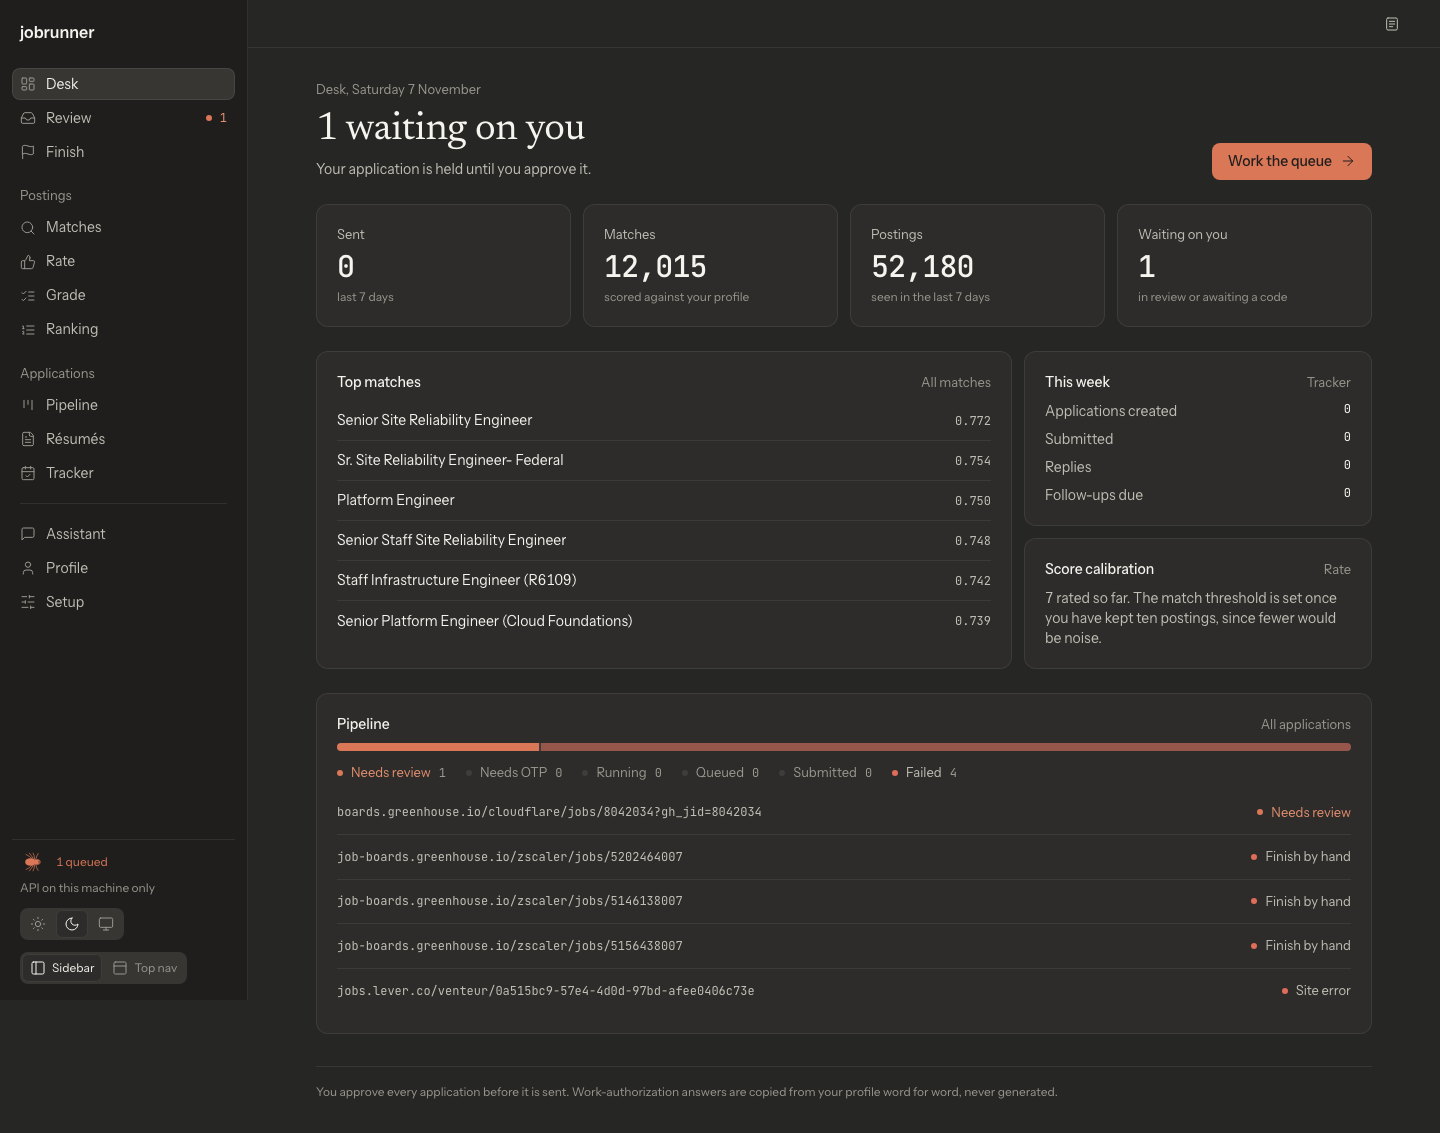
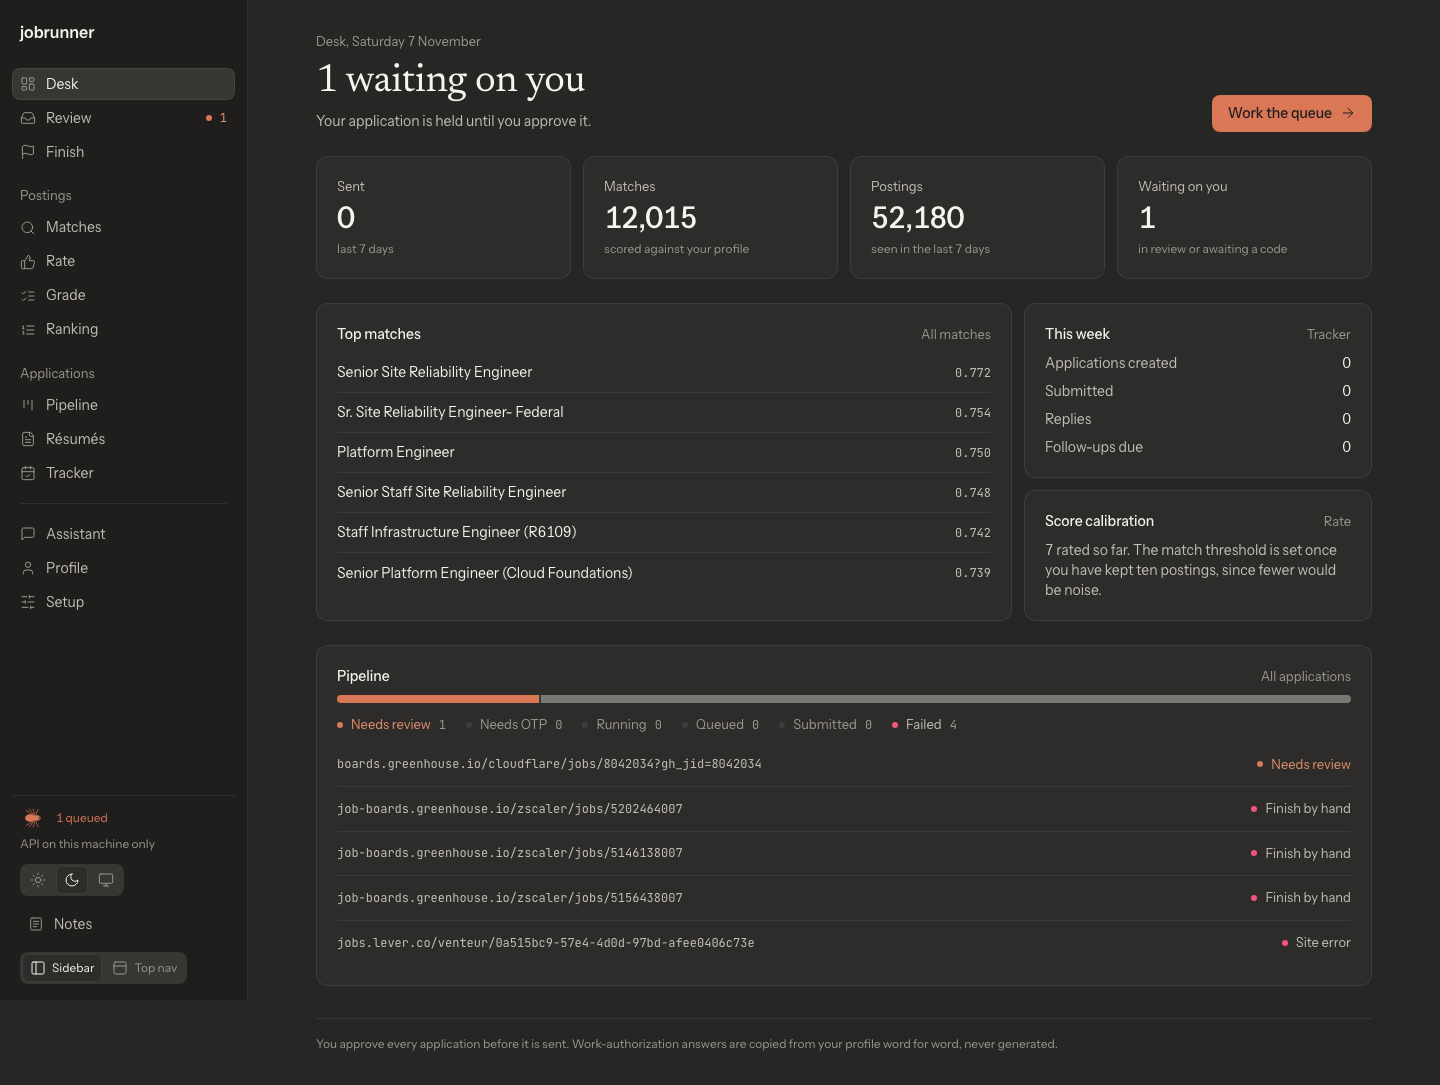
fix(web): apply warm dashboard review fixes

diff --git a/apps/web/src/app/globals.css b/apps/web/src/app/globals.css
@@ -19,8 +19,8 @@
   --color-on-accent: #1f1e1d;
   --color-go: #7cbf8e;
   --color-go-soft: #2e3c30;
-  --color-stop: #e06c5a;
-  --color-stop-soft: #432f2b;
+  --color-stop: #f2557a;
+  --color-stop-soft: #46262f;
   --color-wait: #c2c0b6;
   --color-wait-soft: #373633;
   /* Database chart bars only. Dataviz tool unavailable in this session;
@@ -58,8 +58,8 @@
   --color-on-accent: #ffffff;
   --color-go: #2f7d4f;
   --color-go-soft: #e9f1e9;
-  --color-stop: #b93a2b;
-  --color-stop-soft: #f8e9e5;
+  --color-stop: #b3173f;
+  --color-stop-soft: #fae6ec;
   --color-wait: #3d3d3a;
   --color-wait-soft: #f0eee6;
   --color-data: #2a78d6;
@@ -85,8 +85,8 @@
     --color-on-accent: #ffffff;
     --color-go: #2f7d4f;
     --color-go-soft: #e9f1e9;
-    --color-stop: #b93a2b;
-    --color-stop-soft: #f8e9e5;
+    --color-stop: #b3173f;
+    --color-stop-soft: #fae6ec;
     --color-wait: #3d3d3a;
     --color-wait-soft: #f0eee6;
     --color-data: #2a78d6;
@@ -137,7 +137,14 @@ h1 { font-family: var(--font-display); font-size: var(--text-display); font-weig
 .layout-choice { display: inline-flex; gap: 6px; align-items: center; justify-content: center; min-height: 28px; padding: 4px 8px; border-radius: 6px; font-size: 12px; color: var(--color-ink-faint); transition-property: background-color, color; }
 .layout-choice[aria-pressed="true"] { color: var(--color-ink); background: var(--color-paper-raised); box-shadow: inset 0 0 0 1px var(--color-rule); }
 .content-column { min-width: 0; }
-.content-bar { display: flex; justify-content: flex-end; align-items: center; height: 48px; padding: 0 32px; border-bottom: 1px solid var(--color-rule-soft); }
+.side-notes { position: relative; }
+.side-notes-panel { position: fixed; left: 260px; bottom: 16px; z-index: 40; width: 320px; max-width: calc(100vw - 280px); }
+.side-notes-panel[hidden] { display: none; }
+.side-notes-toggle { display: flex; align-items: center; gap: 10px; width: 100%; height: 32px; padding: 0 8px; border-radius: 8px; color: var(--color-ink-soft); transition-property: color, background-color; }
+.side-notes-toggle > svg { color: var(--color-ink-faint); }
+.side-notes-toggle:hover, .side-notes-toggle[aria-expanded="true"] { background: var(--color-paper-high); color: var(--color-ink); }
+.side-notes-toggle:focus-visible { outline: 2px solid var(--color-ink-soft); outline-offset: 2px; }
+[data-layout="top"] .side-notes-panel { position: absolute; left: auto; right: 0; bottom: auto; top: calc(100% + 12px); max-width: calc(100vw - 4rem); }
 .content-width { width: 100%; max-width: 1120px; margin-inline: auto; padding: 32px; min-width: 0; }
 .app-footer { padding-top: 0; }
 .app-footer p { border-top: 1px solid var(--color-rule); padding-top: 16px; font-size: 12px; line-height: 18px; color: var(--color-ink-faint); }
@@ -159,7 +166,7 @@ h1 { font-family: var(--font-display); font-size: var(--text-display); font-weig
 .desk-stat { display: flex; flex-direction: column; gap: 4px; transition-property: border-color; }
 a.desk-stat:hover { border-color: var(--color-ink-faint); }
 .desk-stat-label { display: flex; align-items: center; gap: 8px; font-size: 13px; color: var(--color-ink-soft); }
-.desk-stat-value { font: 500 30px/36px var(--font-mono); font-variant-numeric: tabular-nums; letter-spacing: -0.03em; }
+.desk-stat-value { font: 500 30px/36px var(--font-sans); font-variant-numeric: tabular-nums; letter-spacing: -0.03em; }
 .desk-stat-detail { font-size: 12px; color: var(--color-ink-faint); }
 .desk-grid { display: grid; grid-template-columns: minmax(0, 2fr) minmax(0, 1fr); gap: 12px; }
 .desk-secondary { display: flex; flex-direction: column; gap: 12px; }
@@ -168,7 +175,7 @@ a.desk-stat:hover { border-color: var(--color-ink-faint); }
 .desk-card-heading a { font-size: 13px; color: var(--color-ink-faint); transition-property: color; }
 .desk-card-heading a:hover { color: var(--color-ink); }
 .status-dot { display: inline-block; width: 6px; height: 6px; border-radius: 50%; flex: none; }
-.resume-sheet { border-radius: 8px; overflow: hidden; background: #fdfcf9; color: #242320; box-shadow: 0 8px 24px rgba(0, 0, 0, 0.12); --color-ink: #242320; --color-ink-soft: #514f48; --color-ink-faint: #706e65; --color-rule: rgba(31, 30, 29, 0.1); --color-paper: #fdfcf9; --color-stop: #b93a2b; --color-go: #2f7d4f; }
+.resume-sheet { border-radius: 8px; overflow: hidden; background: #fdfcf9; color: #242320; box-shadow: 0 8px 24px rgba(0, 0, 0, 0.12); --color-ink: #242320; --color-ink-soft: #514f48; --color-ink-faint: #706e65; --color-rule: rgba(31, 30, 29, 0.1); --color-paper: #fdfcf9; --color-stop: #b3173f; --color-go: #2f7d4f; }
 
 @media (max-width: 767px) {
   .app-shell, .app-shell[data-layout="top"] { display: block; }
@@ -182,7 +189,7 @@ a.desk-stat:hover { border-color: var(--color-ink-faint); }
   .nav-group, [data-layout="top"] .nav-group { display: block; }
   .nav-separator, [data-layout="top"] .nav-separator { display: block; }
   [data-layout="top"] .sidebar-service { display: block; }
-  .content-bar { height: 40px; padding-inline: 20px; }
+  .side-notes-panel, [data-layout="top"] .side-notes-panel { position: static; width: 100%; max-width: none; margin-top: 8px; }
   .content-width { padding: 24px 20px; }
   .app-footer { padding-top: 0; }
   .desk-heading { align-items: flex-start; flex-direction: column; gap: 16px; }

diff --git a/apps/web/src/app/matches/filter-bar.tsx b/apps/web/src/app/matches/filter-bar.tsx
@@ -144,12 +144,12 @@ export function FilterBar({
     <div className="rounded-[var(--radius-lg)] border border-rule bg-paper-raised p-4">
       <div className="flex flex-wrap items-end gap-4">
         <label className="flex flex-col gap-1">
-          <span className={LABEL}>keywords</span>
+          <span className={LABEL}>Keywords</span>
           {text("keywords", "python, postgres", "w-48")}
         </label>
 
         <label className="flex flex-col gap-1">
-          <span className={LABEL}>role</span>
+          <span className={LABEL}>Role</span>
           <select
             value={value("role")}
             onChange={(event) => set("role", event.target.value)}
@@ -166,12 +166,12 @@ export function FilterBar({
         </label>
 
         <label className="flex flex-col gap-1">
-          <span className={LABEL}>location</span>
+          <span className={LABEL}>Location</span>
           {text("locations", "austin, san jose", "w-44")}
         </label>
 
         <label className="flex flex-col gap-1">
-          <span className={LABEL}>remote</span>
+          <span className={LABEL}>Remote</span>
           <select value={value("remote")} onChange={(event) => set("remote", event.target.value)} className={FIELD}>
             <option value="">either</option>
             <option value="true">remote only</option>
@@ -180,7 +180,7 @@ export function FilterBar({
         </label>
 
         <label className="flex flex-col gap-1">
-          <span className={LABEL}>at least</span>
+          <span className={LABEL}>At least</span>
           <select
             value={value("min_seniority")}
             onChange={(event) => set("min_seniority", event.target.value)}
@@ -196,7 +196,7 @@ export function FilterBar({
         </label>
 
         <label className="flex flex-col gap-1">
-          <span className={LABEL}>seen within</span>
+          <span className={LABEL}>Seen within</span>
           <select
             value={value("posted_within_days")}
             onChange={(event) => set("posted_within_days", event.target.value)}
@@ -210,7 +210,7 @@ export function FilterBar({
         </label>
 
         <label className="flex flex-col gap-1">
-          <span className={LABEL}>order</span>
+          <span className={LABEL}>Order</span>
           <select value={value("rank")} onChange={(event) => set("rank", event.target.value)} className={FIELD}>
             <option value="">by fit (base score)</option>
             <option value="personalized">with my adjustments</option>
@@ -224,7 +224,7 @@ export function FilterBar({
         <legend className="sr-only">Pay, skills, education and work authorization</legend>
         <div className="flex flex-wrap items-end gap-4">
           <div className="flex flex-col gap-1">
-            <span className={LABEL}>pay reaching</span>
+            <span className={LABEL}>Pay reaching</span>
             <div className="flex gap-1">
               <input
                 type="number"
@@ -266,17 +266,17 @@ export function FilterBar({
           </div>
 
           <label className="flex flex-col gap-1">
-            <span className={LABEL}>skills I lack</span>
+            <span className={LABEL}>Skills I lack</span>
             {text("lacking_skills", "java, kubernetes", "w-44")}
           </label>
 
           <label className="flex flex-col gap-1">
-            <span className={LABEL}>must name</span>
+            <span className={LABEL}>Must name</span>
             {text("wanted_skills", "python", "w-36")}
           </label>
 
           <label className="flex flex-col gap-1">
-            <span className={LABEL}>my education</span>
+            <span className={LABEL}>My education</span>
             <select
               value={value("max_education")}
               onChange={(event) => set("max_education", event.target.value)}
@@ -292,7 +292,7 @@ export function FilterBar({
           </label>
 
           <label className="flex flex-col gap-1">
-            <span className={LABEL}>sponsorship</span>
+            <span className={LABEL}>Sponsorship</span>
             <select
               value={value("sponsorship")}
               onChange={(event) => set("sponsorship", event.target.value)}

diff --git a/apps/web/src/components/side-notes.tsx b/apps/web/src/components/side-notes.tsx
@@ -44,7 +44,7 @@ export function SideNotes() {
   }
 
   return (
-    <div className="relative">
+    <div className="side-notes">
       <button
         ref={toggle}
         type="button"
@@ -53,15 +53,15 @@ export function SideNotes() {
         aria-controls="side-notes-panel"
         title={open ? "Close notes" : "Open notes"}
         onClick={() => setOpen((current) => !current)}
-        className={`flex h-8 w-8 items-center justify-center rounded-[var(--radius)] transition-colors hover:border-ink-soft hover:text-ink focus-visible:outline-2 focus-visible:outline-offset-2 focus-visible:outline-ink-soft ${open ? "bg-paper-high text-ink" : "text-ink-soft"}`}
+        className="side-notes-toggle"
       >
-        <Icon name="notes" />
+        <Icon name="notes" />Notes
       </button>
       <aside
         id="side-notes-panel"
         hidden={!open}
         aria-labelledby="side-notes-title"
-        className="absolute right-0 top-full z-40 mt-3 w-80 max-w-[calc(100vw-3rem)] rounded-[var(--radius-panel)] border border-rule bg-paper-raised p-5 shadow-lg"
+        className="side-notes-panel rounded-[var(--radius-panel)] border border-rule bg-paper-raised p-5 shadow-lg"
       >
         <h2 id="side-notes-title" className="text-label text-ink-soft">
           Side notes

diff --git a/apps/web/src/lib/text.ts b/apps/web/src/lib/text.ts
@@ -1,0 +1,21 @@
+/** Upper-cases the first letter of a stored lowercase name ("skills" becomes "Skills"). */
+export function sentenceCase(text: string): string {
+  return text.charAt(0).toUpperCase() + text.slice(1);
+}
+
+/**
+ * A moment written the way the Desk writes its date, with the time after it:
+ * "Sunday 8 November, 22:08". Pinned to the owner's zone so the server preview
+ * and the browser print the same text.
+ */
+export function deskDateTime(value: string | number | Date): string {
+  const zone = "America/Los_Angeles";
+  const moment = new Date(value);
+  const day = new Intl.DateTimeFormat("en-GB", {
+    weekday: "long", day: "numeric", month: "long", timeZone: zone,
+  }).format(moment);
+  const time = new Intl.DateTimeFormat("en-GB", {
+    hour: "2-digit", minute: "2-digit", hourCycle: "h23", timeZone: zone,
+  }).format(moment);
+  return `${day}, ${time}`;
+}

diff --git a/apps/web/src/components/resume-editor.tsx b/apps/web/src/components/resume-editor.tsx
@@ -4,6 +4,7 @@ import { useActionState, useState } from "react";
 import { Icon } from "./icon";
 import { useFormStatus } from "react-dom";
 import type { ResumeParsed } from "@/lib/api";
+import { sentenceCase } from "@/lib/text";
 import { ResumePreview } from "@/components/resume-preview";
 import { saveResumeEdit } from "@/app/resumes/actions";
 import type { UploadResult } from "@/app/resumes/actions";
@@ -230,7 +231,7 @@ export function ResumeEditor({
         {Object.entries(sections).map(([section, lines]) => (
           <section key={section} className="px-5 py-4">
             <h4 className={legend}>
-              {section}{" "}
+              {sentenceCase(section)}{" "}
               <span className="tabular-nums">· {(lines.filter((l) => l.trim()).length).toLocaleString("en-US")}</span>
             </h4>
             <div className="mt-3 space-y-1">

diff --git a/apps/web/src/components/dashboard-shell.tsx b/apps/web/src/components/dashboard-shell.tsx
@@ -95,6 +95,7 @@ export function DashboardShell({ children, services, theme, notes, footer, initi
         <div className="sidebar-foot">
           <div className="sidebar-service space-y-2">{services}</div>
           {theme}
+          {notes}
           <div role="group" aria-label="Navigation layout" className="layout-switch">
             <button type="button" className="layout-choice" aria-label="Sidebar layout"
               aria-pressed={layout === "sidebar"} onClick={() => choose("sidebar")}>
@@ -108,7 +109,6 @@ export function DashboardShell({ children, services, theme, notes, footer, initi
         </div>
       </aside>
       <div className="content-column">
-        <div className="content-bar">{notes}</div>
         <main className="content-width">{children}</main>
         <footer className="content-width app-footer">{footer}</footer>
       </div>

diff --git a/apps/web/src/app/matches/discovery-strip.tsx b/apps/web/src/app/matches/discovery-strip.tsx
@@ -1,3 +1,4 @@
+import { deskDateTime } from "@/lib/text";
 import { api, ApiError, type DiscoveryStatus } from "@/lib/api";
 
 /**
@@ -50,9 +51,7 @@ export async function DiscoveryStrip() {
             ? `${status.postings_unembedded.toLocaleString("en-US")} fetched postings are not scored yet — a listing with no description never will be, and scoring happens on the next sweep. `
             : ""}
           {status.retrying > 0 && status.retrying_next_at
-            ? `${status.retrying.toLocaleString("en-US")} companies failed and will be retried from ${new Date(
-                status.retrying_next_at,
-              ).toLocaleString("en-US")}.`
+            ? `${status.retrying.toLocaleString("en-US")} companies failed and will be retried from ${deskDateTime(status.retrying_next_at)}.`
             : null}
         </p>
       ) : null}

diff --git a/apps/web/src/components/resume-preview.tsx b/apps/web/src/components/resume-preview.tsx
@@ -1,3 +1,4 @@
+import { sentenceCase } from "@/lib/text";
 import type { ResumeParsed } from "@/lib/api";
 
 /**
@@ -73,7 +74,7 @@ export function ResumeDocumentView({
             return (
               <section key={name} className="px-5 py-4">
                 <h4 className="text-label text-ink-soft">
-                  {name} <span className="tabular-nums">· {(lines.length).toLocaleString("en-US")}</span>
+                  {sentenceCase(name)} <span className="tabular-nums">· {(lines.length).toLocaleString("en-US")}</span>
                 </h4>
                 <ul className="mt-3 space-y-2">
                   {lines.map((line, index) => (

diff --git a/apps/web/src/components/status-stream.tsx b/apps/web/src/components/status-stream.tsx
@@ -136,7 +136,7 @@ export function LivePipeline({ initial, order }: { initial: StatusCounts; order:
       <div className="mb-3 flex h-2 gap-0.5 overflow-hidden rounded-full bg-rule" role="img"
         aria-label={total ? description : "No applications yet"}>
         {order.filter((status) => counts[status] > 0).map((status) => (
-          <span key={status} className={status === "failed" ? "bg-stop/55" : STATUS_DOT[status]}
+          <span key={status} className={status === "failed" ? "bg-ink-soft/45" : STATUS_DOT[status]}
             style={{ flex: counts[status] }} />
         ))}
       </div>

diff --git a/apps/web/src/app/page.tsx b/apps/web/src/app/page.tsx
@@ -93,7 +93,7 @@ export default async function DeskPage() {
                 ] as const).map(([label, value]) => (
                   <div key={label} className="flex justify-between gap-4">
                     <dt className="text-ink-soft">{label}</dt>
-                    <dd className="font-mono text-xs tabular-nums">{value.toLocaleString("en-US")}</dd>
+                    <dd className="font-sans text-sm tabular-nums">{value.toLocaleString("en-US")}</dd>
                   </div>
                 ))}
               </dl>

diff --git a/apps/web/src/components/assistant.tsx b/apps/web/src/components/assistant.tsx
@@ -602,7 +602,7 @@ export function Assistant({ applicationId }: { applicationId?: string }) {
       <div className="flex flex-wrap items-center gap-x-3 gap-y-1 border-b border-rule px-3 py-2">
         {chosen.local ? (
           <p className="text-xs text-ink-faint">
-            recruiter mail: included — it never leaves this machine
+            Recruiter mail: included. It never leaves this machine.
           </p>
         ) : (
           <>

diff --git a/docs/evaluations/dashboard-warm-2026-11-07.md b/docs/evaluations/dashboard-warm-2026-11-07.md
@@ -4,10 +4,10 @@ The dashboard uses the Claude warm reference tokens and typography. Sidebar navi
 
 ## Design passes
 
-1. Exact warm dark/light surfaces, clay owner-action accent, toned success/failure, neutral in-flight states; no page glow.
+1. Exact warm dark/light surfaces, clay owner-action accent, toned success, a crimson stop colour distinct from clay, neutral in-flight and failed-bar states; no page glow.
 2. Four-pixel spacing, 8px controls, 12px cards, 16px panels.
-3. Grouped 13-link navigation, live Review count, service indicators, Notes bar, persistent layout selection, mobile menu.
-4. Newsreader page titles, Instrument Sans interface, JetBrains Mono values, locale-formatted counts.
+3. Grouped 13-link navigation, live Review count, service indicators, a Notes toggle in the sidebar footer, persistent layout selection, mobile menu.
+4. Newsreader page titles, Instrument Sans interface and figures, JetBrains Mono for scores, ids and URLs, locale-formatted counts.
 5. Status dots and sentence-case text; failure details remain available.
 6. Inline Lucide paths with ISC attribution replace emoji controls; the drawn crawler remains.
 7. Approval/profile copy preserved, clearer assistant empty state and Send action.
@@ -33,7 +33,7 @@ The requested dataviz validator was unavailable in this session. Direct contrast
 | Package manifest and lockfile | Unchanged |
 | Source line limit / whitespace | Passed |
 | Browser interactions | Passed |
-| Screenshot matrix | 72 views: all HTTP 200, no overflow or client errors; Matches refreshed after fix |
+| Screenshot matrix | 72 views, rerun after the review fixes: all HTTP 200, no overflow or client errors |
 
 Browser interaction checks cover both layouts and persistence, unsent assistant draft survival when switching layout, explicit theme precedence over the system preference, system-mode changes, Notes focus/Escape/focus return and draft retention, mobile menu ordering/Escape/navigation close, and 390px overflow.
 
@@ -47,6 +47,16 @@ All local evidence is in `/private/tmp/jobrunner-unslop-artifacts/`; `index.html
 |---|---|---|---|---|
 | Sidebar | [View](../screenshots/warm-dashboard/desk-sidebar-dark-1440.png) | [View](../screenshots/warm-dashboard/desk-sidebar-light-1440.png) | [View](../screenshots/warm-dashboard/desk-sidebar-dark-390.png) | [View](../screenshots/warm-dashboard/desk-sidebar-light-390.png) |
 | Top nav | [View](../screenshots/warm-dashboard/desk-top-dark-1440.png) | [View](../screenshots/warm-dashboard/desk-top-light-1440.png) | [View](../screenshots/warm-dashboard/desk-top-dark-390.png) | [View](../screenshots/warm-dashboard/desk-top-light-390.png) |
+
+## Review fixes, 2026-11-07
+
+Five changes from review, with the required selection, build and 72-view matrix rerun afterwards.
+
+1. **Failure no longer reads as clay.** The failed segment of the Desk pipeline bar is a neutral ramp step (`ink-soft` at 45%) instead of a tinted red. `--color-stop` is a distinct crimson in both modes (dark `#f2557a`, light `#b3173f`; stop surfaces `#46262f` and `#fae6ec`), so it cannot be mistaken for clay (`#d97757` / `#b5532f`) beside the needs-review dot.
+2. **Figures in Instrument Sans.** Stat-card figures and This week values use Instrument Sans with `tabular-nums`. JetBrains Mono stays for scores, ids and URLs.
+3. **Sentence case.** The Matches filter labels (Keywords, Role, Location, Remote, At least, Seen within, Order, Pay reaching, Skills I lack, Must name, My education, Sponsorship), the résumé section headings on Review such as "Skills · 8", and "Recruiter mail: included. It never leaves this machine." on Assistant.
+4. **No empty top bar.** The 48px bar that held only the notes icon is gone. Notes is a labelled toggle in the sidebar footer, with the same focus-to-textarea, Escape-to-close and focus-return behaviour. The panel opens beside the sidebar, below the footer in Top nav, and inline in the mobile menu.
+5. **Retry time matches the Desk date.** The Matches retry time reads like "Sunday 8 November, 22:08", pinned to `America/Los_Angeles`.
 
 ## Matches hydration fix
 
